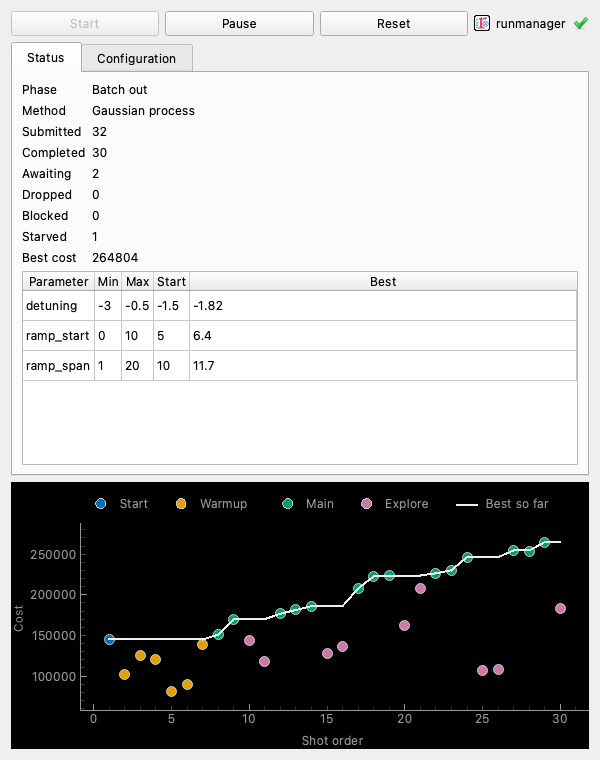
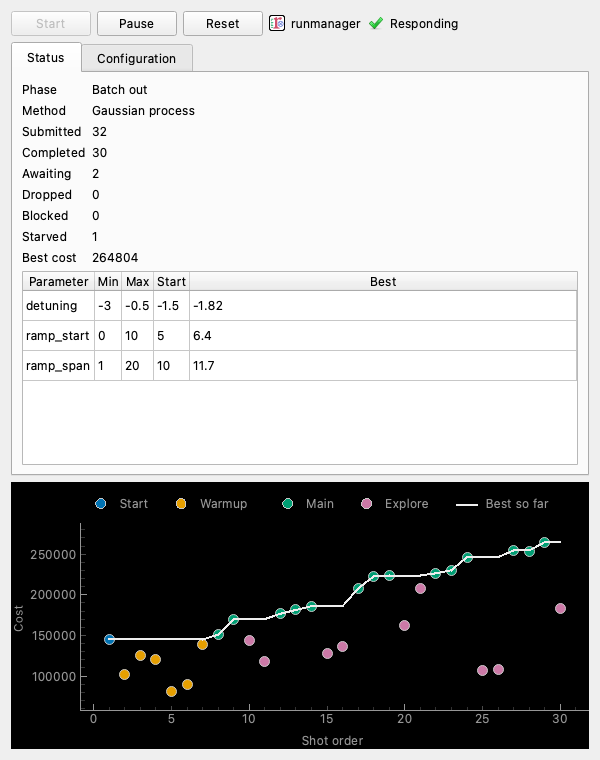
Show the runmanager light with labscript-utils' LinkIndicator widget
The indicator is now one widget that probes for itself: the window adds
it to a named layout in window.ui, the routine starts it and shuts it
down, and its answers gate Start. The routine's LinkMonitor goes.

diff --git a/tests/test_window.py b/tests/test_window.py
@@ -23,7 +23,8 @@ from labscript_optimization.window import WindowController
 def test_window_shows_progress_and_controls(qt_application):
     commands = Queue()
     ui = UiLoader().load(str(Path(window_module.__file__).with_suffix('.ui')))
-    window = WindowController(ui, commands)
+    # The indicator is never started, so nothing is probed.
+    window = WindowController(ui, commands, lambda: None)
     window.ui.show()
     qt_application.processEvents()
 
@@ -41,7 +42,7 @@ def test_window_shows_progress_and_controls(qt_application):
     # Start needs runmanager answering as well as a session that can start, and
     # needs no Reset once it does.
     assert not window.ui.start_button.isEnabled()
-    window.show_link(True, None)
+    window.link.on_answer(True, None)
     qt_application.processEvents()
     window.ui.start_button.click()
     assert commands.get_nowait()[0] == "start"
@@ -58,13 +59,13 @@ def test_window_shows_progress_and_controls(qt_application):
     # waits for runmanager to be heard again.
     reason = {"paused": True, "pause_reason": "runmanager is not answering"}
     window.update(reason, False, (), True, False)
-    window.show_link(False, "gone")
+    window.link.on_answer(False, "gone")
     qt_application.processEvents()
     assert window.ui.phase_value.text() == "Paused: runmanager is not answering"
     assert not window.ui.start_button.isEnabled()
 
     # Answering again does not start a session that has ended.
-    window.show_link(True, None)
+    window.link.on_answer(True, None)
     window.update({"stopped": "reached max_num_runs (2)"}, False, (), True, False)
     qt_application.processEvents()
     assert window.ui.phase_value.text() == "Ended: reached max_num_runs (2)"

diff --git a/labscript_optimization/routine.py b/labscript_optimization/routine.py
@@ -27,7 +27,6 @@ from pathlib import Path
 
 import lyse
 import numpy as np
-from labscript_utils.qtwidgets.link_indicator import LinkMonitor
 
 from . import config as config_module
 from .runmanager_interface import RunmanagerInterface
@@ -233,13 +232,13 @@ class OptimizationRoutine(lyse.Routine):
         client = RunmanagerClient()
         ui = self.load_ui(Path(__file__).with_name("window.ui"))
         commands = queue.Queue()
-        window = WindowController(ui, commands, host=client.host)
+        window = WindowController(
+            ui, commands, lambda: client.say_hello(timeout=1), host=client.host
+        )
         window.show_config(self.config, text)
         self.worker = Worker(self.config, window, commands, self.interface_factory)
-        self.monitor = LinkMonitor(
-            lambda: client.say_hello(timeout=1), window.show_link
-        )
-        self.monitor.start()
+        self.link = window.link
+        self.link.start()
 
     def run(self):
         """Hand the shots of lyse's current multishot pass to the session."""
@@ -256,5 +255,5 @@ class OptimizationRoutine(lyse.Routine):
 
         Called when lyse removes or restarts the routine.
         """
-        self.monitor.shutdown()
+        self.link.shutdown()
         self.worker.quit()

diff --git a/labscript_optimization/window.py b/labscript_optimization/window.py
@@ -23,10 +23,14 @@ from qtutils.qt import QtGui, QtWidgets
 
 
 class WindowController:
-    def __init__(self, ui, command_queue, host=None):
+    def __init__(self, ui, command_queue, probe, host=None):
         self.command_queue = command_queue
         self.ui = ui
-        self.link = LinkIndicator(self.ui.runmanager_status, "runmanager", host=host)
+        # Started by the routine, so a window can be built without probing.
+        self.link = LinkIndicator(
+            "runmanager", probe, host=host, on_answer=self._link_answered
+        )
+        self.ui.runmanager_link_layout.addWidget(self.link)
         # Whether the session could start, and whether runmanager answers: Start
         # needs both.
         self.startable = False
@@ -79,9 +83,7 @@ class WindowController:
             [], [], pen=None, symbol="o", symbolBrush=color
         )
 
-    def show_link(self, reachable, answer):
-        """Show whether runmanager answers, from the monitor's last status."""
-        self.link.show_link(reachable, None if reachable else answer)
+    def _link_answered(self, reachable, answer):
         self.link_online = reachable
         self._enable_start()
 

diff --git a/issues/lyse_class_routine.md b/issues/lyse_class_routine.md
@@ -60,10 +60,10 @@ class Optimization(OptimizationRoutine):
   - the window's buttons put `start`, `pause` and `reset` on its queue;
   - `quit()` asks the thread to stop, and does not wait for it.
 - **`routine.py`'s `OptimizationRoutine`** is the lyse side alone: it builds the
-  window, reads shots out of lyse and saves their status columns into it. It
-  also runs labscript-utils' `LinkMonitor`, which probes runmanager with
-  `say_hello(timeout=1)` every 2 s, and the window shows each answer with
-  labscript-utils' `LinkIndicator`.
+  window, reads shots out of lyse and saves their status columns into it. The
+  window builds labscript-utils' `LinkIndicator`, which probes runmanager with
+  `say_hello(timeout=1)` every 2 s and whose answers gate Start; the routine
+  starts it and shuts it down in `close()`.
 
 ## Threads
 
@@ -71,7 +71,7 @@ class Optimization(OptimizationRoutine):
 | --- | --- |
 | Reading the configuration, building the window, `close()`, button slots | GUI main thread |
 | Recording costs, reconciling, proposing, submitting | Session thread |
-| Asking runmanager whether it answers | The monitor's thread |
+| Asking runmanager whether it answers | The indicator's thread |
 | Reading the analyzed shots and saving their status columns | lyse's analysis thread, in `run()` |
 | A Gaussian-process batch | The learner's background thread |
 
@@ -93,7 +93,7 @@ puts `refresh` on the queue.
    figures.
 3. Build the `Worker`, with the `interface_factory` class attribute, which is
    `RunmanagerInterface`.
-4. Start the `LinkMonitor`, reporting to the window.
+4. Start the window's `LinkIndicator`.
 
 `__init__` makes no runmanager round trip, so the window appears at once. The
 session thread builds the session, and the window shows "Opening" until it
@@ -127,7 +127,8 @@ failed by its end, so lyse shows it as that analysis's error.
   contacting runmanager. If that fails, the window shows why, the traceback is
   printed, and the routine stays up.
 - **The runmanager indicator** is a row in the window's top bar, right of the
-  buttons: runmanager's icon, the label `runmanager` and a status light. The
+  buttons: runmanager's icon, the label `runmanager` and a status light with
+  its status beside it: `Checking...`, `Responding` or `Not responding`. The
   light is an hourglass before the first answer, a tick while runmanager
   answers and an exclamation mark while it does not, and its tooltip names
   the host and gives the reason. Nothing is printed for runmanager not
@@ -164,7 +165,7 @@ arrive; lyse's spec rules this out for every routine.
 ## `close()`
 
 lyse calls `close()` on the GUI thread once the last `run()` has returned. It
-shuts down the monitor and calls `Worker.quit()`, neither of which waits: the
+shuts down the indicator and calls `Worker.quit()`, neither of which waits: the
 session thread may be inside a runmanager round trip of up to the client's
 timeout, and `close()` must not block the GUI thread. The threads are daemons,
 and the worker's exit ends them.
@@ -195,9 +196,8 @@ lyse. The session and learner tests stand, and `extract`'s tests stay.
     and a later Start goes;
   - runmanager not answering during a run pauses the session without raising
     or printing, and Start resumes it.
-- **The window,** with no client: it enables Start only when the session can
-  start and runmanager answers. labscript-utils tests the indicator and the
-  monitor.
+- **The window,** with a probe that is never started: it enables Start only when the session can
+  start and runmanager answers. labscript-utils tests the indicator.
 - **The routine, end to end,** through lyse's real worker subprocess, as lyse's
   own `GuiWorkerTests` drive it: a routine folder whose subclass sets
   `interface_factory` to the fake. It constructs, an empty multishot pass

diff --git a/docs/source/window.rst b/docs/source/window.rst
@@ -27,7 +27,7 @@ A session that has ended can only be reset. All three buttons are disabled while
 The runmanager indicator
 ------------------------
 
-To the right of the buttons are runmanager's icon, its name and a light that shows whether runmanager is answering. The window asks runmanager every two seconds. A tick means it answers, an exclamation mark means it does not, and an hourglass means it has not yet been asked. The light's tooltip names the host runmanager is expected on, and gives the reason when runmanager does not answer. Nothing is printed to the Output dock for a runmanager that is not answering.
+To the right of the buttons are runmanager's icon, its name and a light that shows whether runmanager is answering. The window asks runmanager every two seconds. A tick means it answers, an exclamation mark means it does not, and an hourglass means it has not yet been asked. Beside the icon the light shows a short status, "Checking...", "Responding" or "Not responding", and hovering it shows the whole status. The light's tooltip names the host runmanager is expected on, and gives the reason when runmanager does not answer. Nothing is printed to the Output dock for a runmanager that is not answering.
 
 Start needs the tick. It enables itself once runmanager answers, with no Reset, and disables itself when runmanager stops.
 
